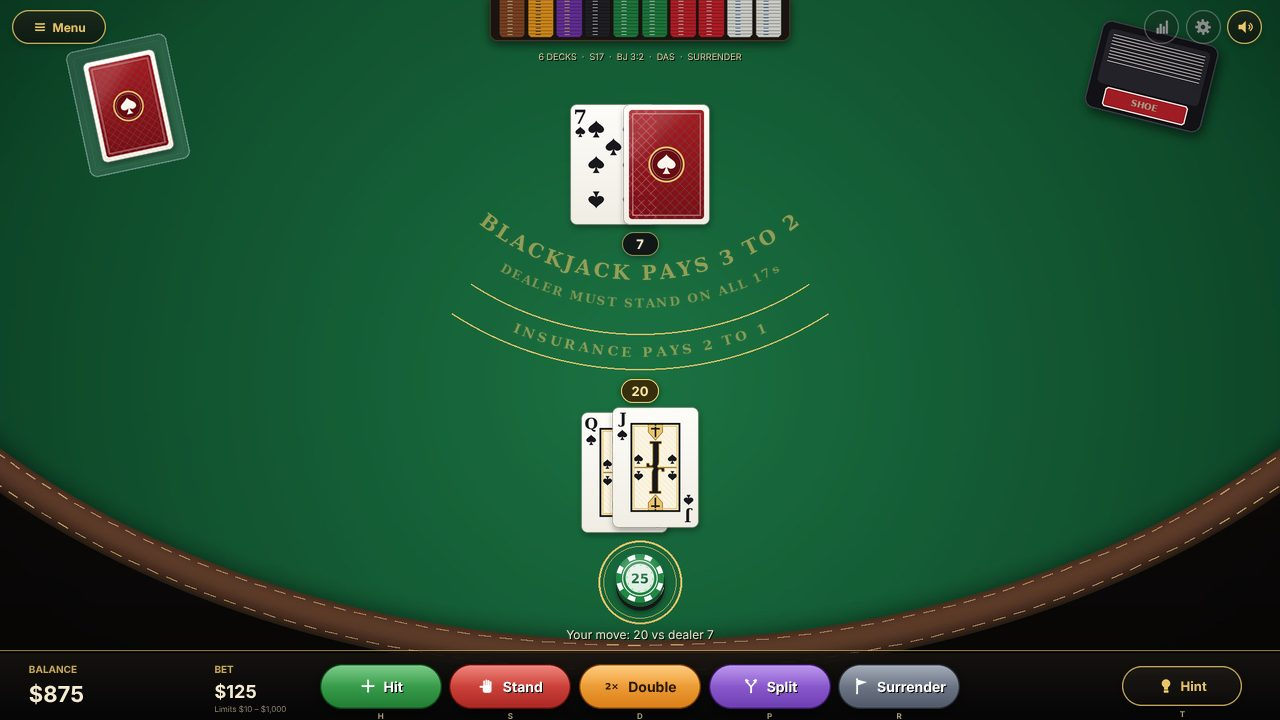
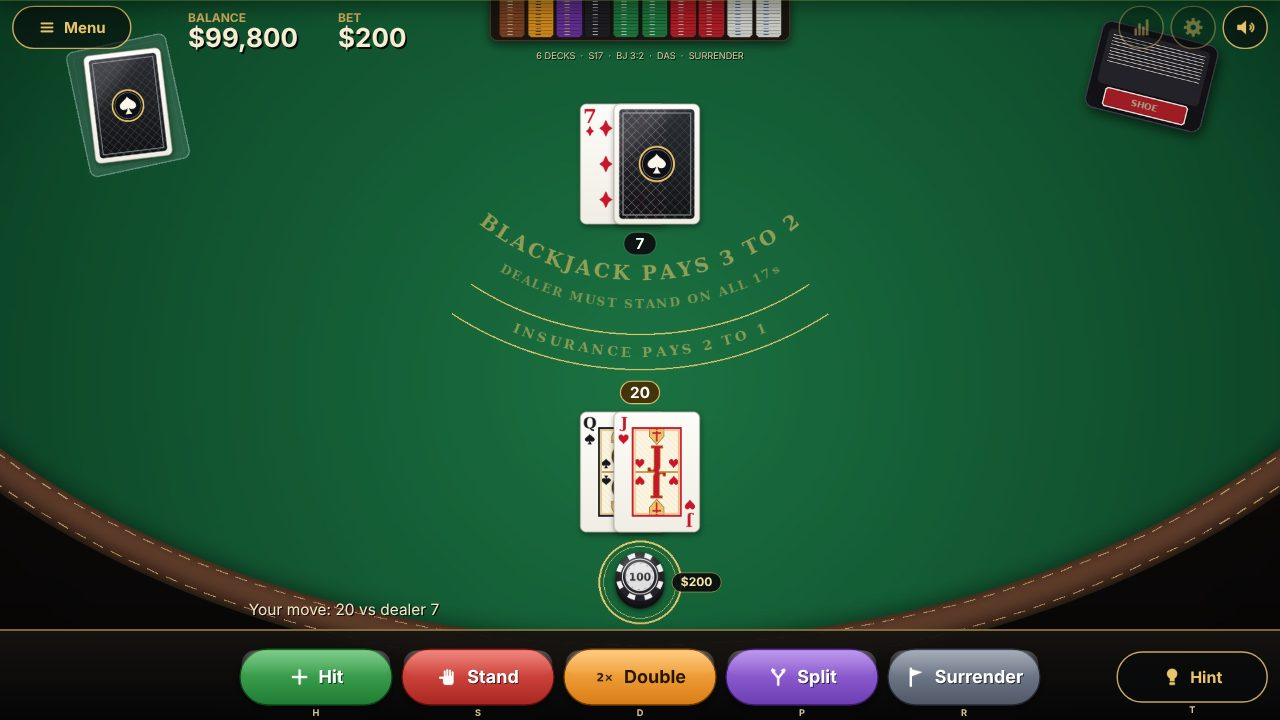
Trim the "play money" wording, default to black card backs, refresh the preview
Wording, as requested: the menu tagline is gone, "in play money" is dropped
from the welcome message, and the descriptions now say "online" (the caption
under the balance stays). The preview image and manifest no longer claim the
game is written in Python, and the preview loses its "online table" line and
its footer line. The command palette hint no longer says "a python game".

New saves use the black card back. The preview screenshot is retaken from
the current game so it shows it.

Claude-Session: https://claude.ai/code/session_01YM6DCMwHWScUZoQ52Zt7LK

diff --git a/src/app/blackjack/og.png/route.tsx b/src/app/blackjack/og.png/route.tsx
@@ -44,20 +44,15 @@ export async function GET() {
       >
         <div style={{ display: "flex", alignItems: "center", height: 60, borderBottom: `1px solid ${C.rule}`, padding: "0 28px", fontSize: 20 }}>
           dk<span style={{ color: C.accent }}>_</span>
-          <span style={{ marginLeft: 22, fontSize: 14, color: C.dim }}>Blackjack.py</span>
+          <span style={{ marginLeft: 22, fontSize: 14, color: C.dim }}>Blackjack.js</span>
         </div>
 
         <div style={{ flex: 1, display: "flex", alignItems: "center", justifyContent: "space-between", padding: "0 56px" }}>
           <div style={{ display: "flex", flexDirection: "column" }}>
-            <div style={{ display: "flex", alignItems: "center", fontSize: 18, color: C.dim }}>
-              <span style={{ width: 9, height: 9, borderRadius: 9, marginRight: 12, backgroundColor: C.accent }} />
-              play money · written in python
-            </div>
             <div
               style={{
                 display: "flex",
                 flexDirection: "column",
-                marginTop: 18,
                 fontFamily: "Instrument Serif",
                 fontSize: 128,
                 lineHeight: 0.88,
@@ -88,7 +83,7 @@ export async function GET() {
           style={{
             display: "flex",
             alignItems: "center",
-            justifyContent: "space-between",
+            justifyContent: "flex-end",
             height: 38,
             padding: "0 22px",
             borderTop: `1px solid ${C.rule}`,
@@ -97,10 +92,6 @@ export async function GET() {
             color: C.dim,
           }}
         >
-          <span style={{ display: "flex", alignItems: "center", gap: 10 }}>
-            <span style={{ width: 8, height: 8, backgroundColor: C.accent }} />
-            $1,000 to start · no real money, ever
-          </span>
           <span style={{ color: C.ink }}>dhairyakhetan.vercel.app/blackjack</span>
         </div>
       </div>

diff --git a/src/app/blackjack/page.html b/src/app/blackjack/page.html
@@ -4,7 +4,7 @@
 <meta charset="utf-8">
 <meta name="viewport" content="width=device-width, initial-scale=1, maximum-scale=1, user-scalable=no, viewport-fit=cover">
 <title>Blackjack | Dhairya Khetan</title>
-<meta name="description" content="A play-money blackjack table that runs right here in the browser.">
+<meta name="description" content="An online blackjack table that runs right here in the browser.">
 <meta name="theme-color" content="#06120a">
 <link rel="canonical" href="https://dhairyakhetan.vercel.app/blackjack">
 <link rel="icon" href="/favicon.svg" type="image/svg+xml">
@@ -17,14 +17,14 @@
 <meta property="og:type" content="website">
 <meta property="og:site_name" content="Dhairya Khetan">
 <meta property="og:title" content="Blackjack | Dhairya Khetan">
-<meta property="og:description" content="A play-money blackjack table that runs right here in the browser.">
+<meta property="og:description" content="An online blackjack table that runs right here in the browser.">
 <meta property="og:url" content="https://dhairyakhetan.vercel.app/blackjack">
 <meta property="og:image" content="https://dhairyakhetan.vercel.app/blackjack/og.png">
 <meta property="og:image:width" content="1200">
 <meta property="og:image:height" content="630">
 <meta name="twitter:card" content="summary_large_image">
 <meta name="twitter:title" content="Blackjack | Dhairya Khetan">
-<meta name="twitter:description" content="A play-money blackjack table that runs right here in the browser.">
+<meta name="twitter:description" content="An online blackjack table that runs right here in the browser.">
 <meta name="twitter:image" content="https://dhairyakhetan.vercel.app/blackjack/og.png">
 <link rel="modulepreload" href="/blackjack/js/main.js">
 <style>

diff --git a/public/blackjack/js/menu.js b/public/blackjack/js/menu.js
@@ -10,7 +10,7 @@ export class MenuScene {
     a.keepAlive++;
     if (st.firstRun && !a.session.welcomed) {
       a.session.welcomed = true;
-      a.toast(`Welcome! You start with ${fmtMoney(st.bankroll)} in play money`, "gold", 3);
+      a.toast(`Welcome! You start with ${fmtMoney(st.bankroll)}`, "gold", 3);
     }
   }
   onDestroy() { this.app.keepAlive--; this.alive = false; }
@@ -46,10 +46,9 @@ export class MenuScene {
     a.assets.background(ctx, a, "bg");
     // left column: logo, tagline, buttons — centred as a group on x = 470
     const lx = 470, bob = (i) => Math.sin(this.t * 1.6 + i * 1.3) * 7;
-    a.assets.logo(ctx, lx, 152, 96);
-    a.text("P L A Y - M O N E Y   C A S I N O", lx, 232, { size: 14, weight: "bold", color: "#e8cf8e" });
+    a.assets.logo(ctx, lx, 178, 96);
     const items = this.items();
-    let y = 318;
+    let y = 296;
     items.forEach((it, i) => {
       const h = (i === 0 ? 66 : 54) * k;
       y += h / 2;

diff --git a/src/app/blackjack/route.ts b/src/app/blackjack/route.ts
@@ -1,9 +1,8 @@
 import { readFile } from "node:fs/promises";
 import path from "node:path";
 
-// The page is a plain HTML shell around public/blackjack/: his Python game runs
-// in the browser through Pyodide, so it lives outside the portfolio's layout
-// like /product-funny. force-static reads the shell once at build time.
+// The page is a plain HTML shell around public/blackjack/: the game draws on its
+// own canvas, so it lives outside the portfolio's layout like /product-funny. force-static reads the shell once at build time.
 export const dynamic = "force-static";
 
 export async function GET() {

diff --git a/public/blackjack/js/store.js b/public/blackjack/js/store.js
@@ -19,7 +19,7 @@ export const PRESETS = {
 
 const DEFAULT_SETTINGS = () => ({
   rules: new Rules().toDict(), preset: "classic", anim_speed: "normal", hints: "button", show_totals: true,
-  show_count: false, intro: "always", volume: 0.8, muted: false, felt: "green", card_back: "red",
+  show_count: false, intro: "always", volume: 0.8, muted: false, felt: "green", card_back: "black",
   four_color: false, fullscreen: false, start_bankroll: 10000000, confirm_leave: true,
 });
 

diff --git a/src/components/CommandPalette.tsx b/src/components/CommandPalette.tsx
@@ -114,7 +114,7 @@ export default function CommandPalette() {
       {
         id: "action-blackjack",
         label: "Play blackjack",
-        hint: "a python game",
+        hint: "a card game",
         group: "Actions",
         // A plain page load: /blackjack lives outside the app router.
         run: () => window.location.assign("/blackjack"),
